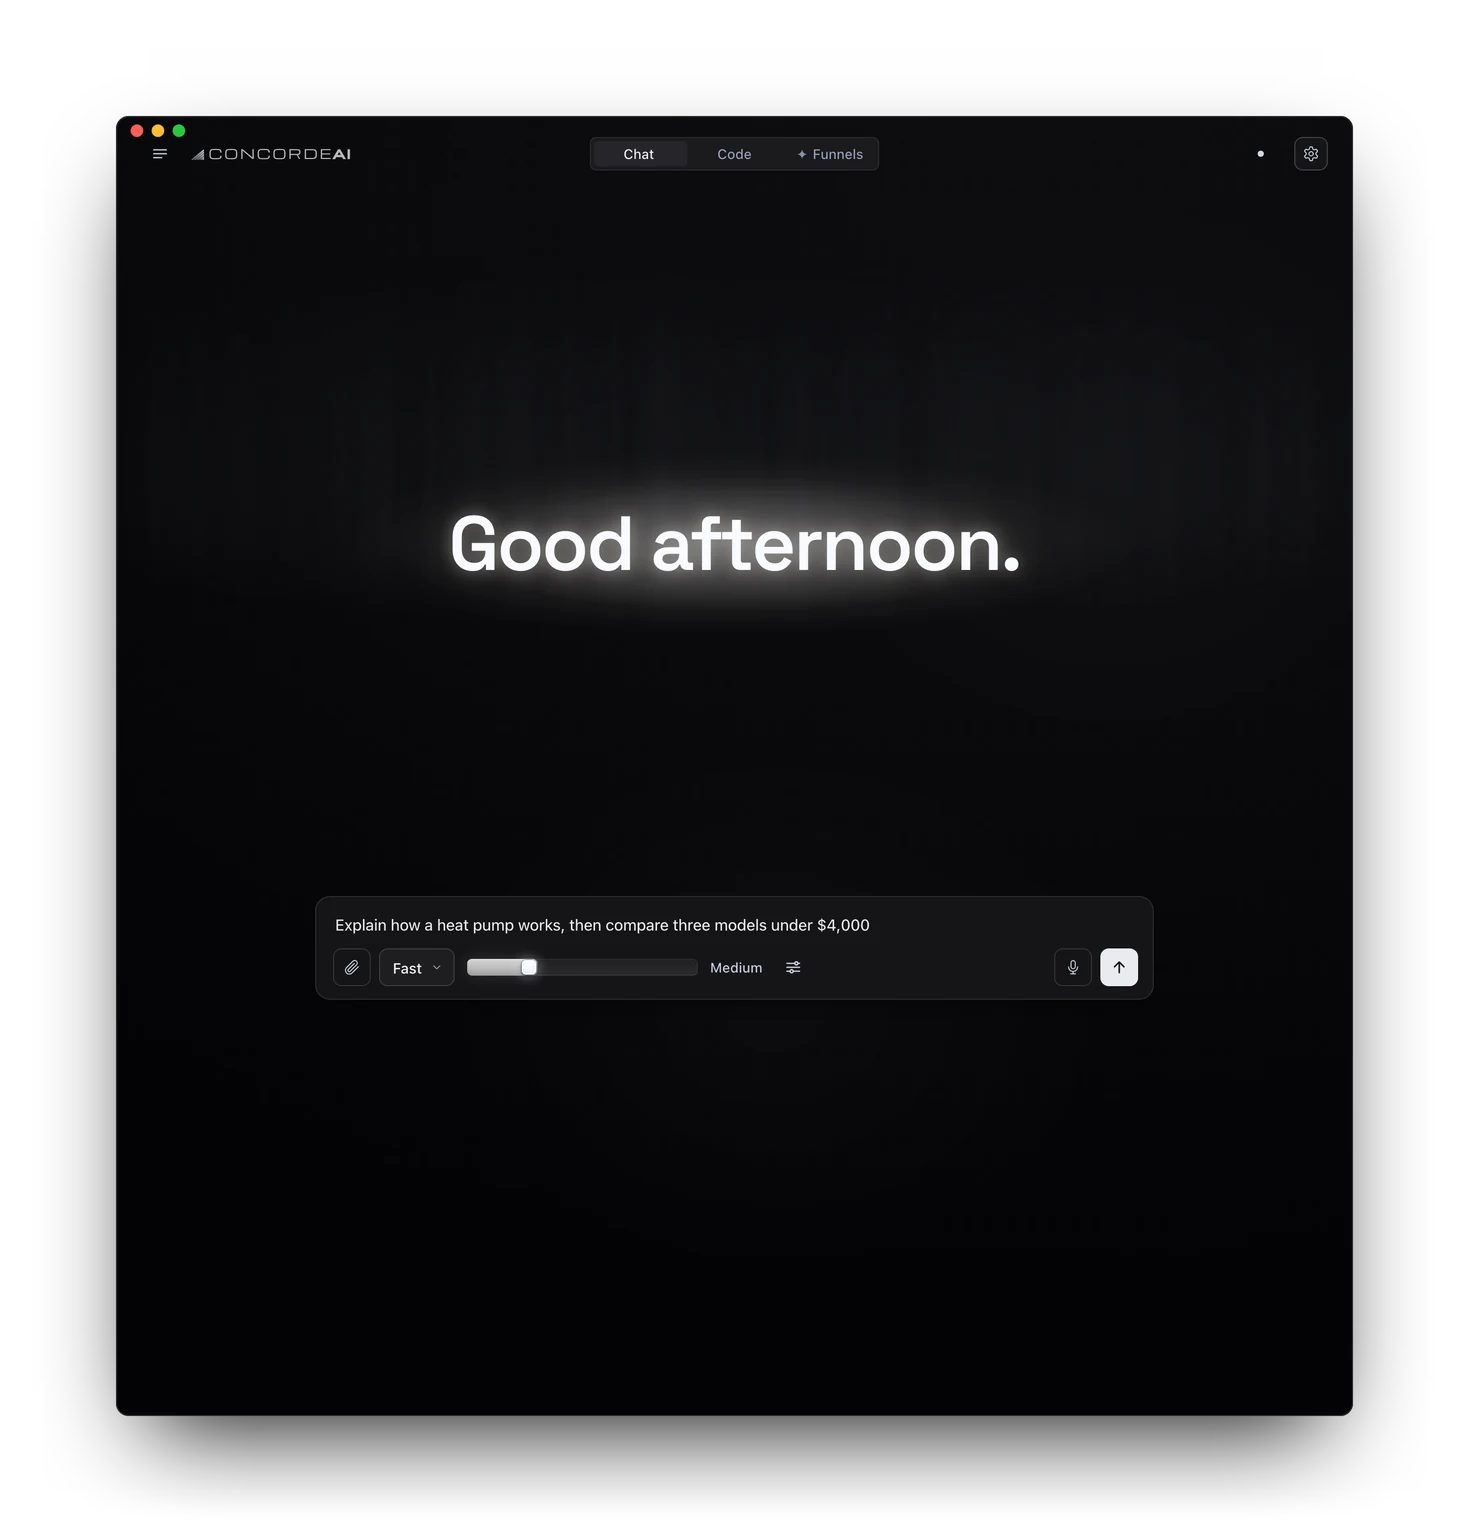
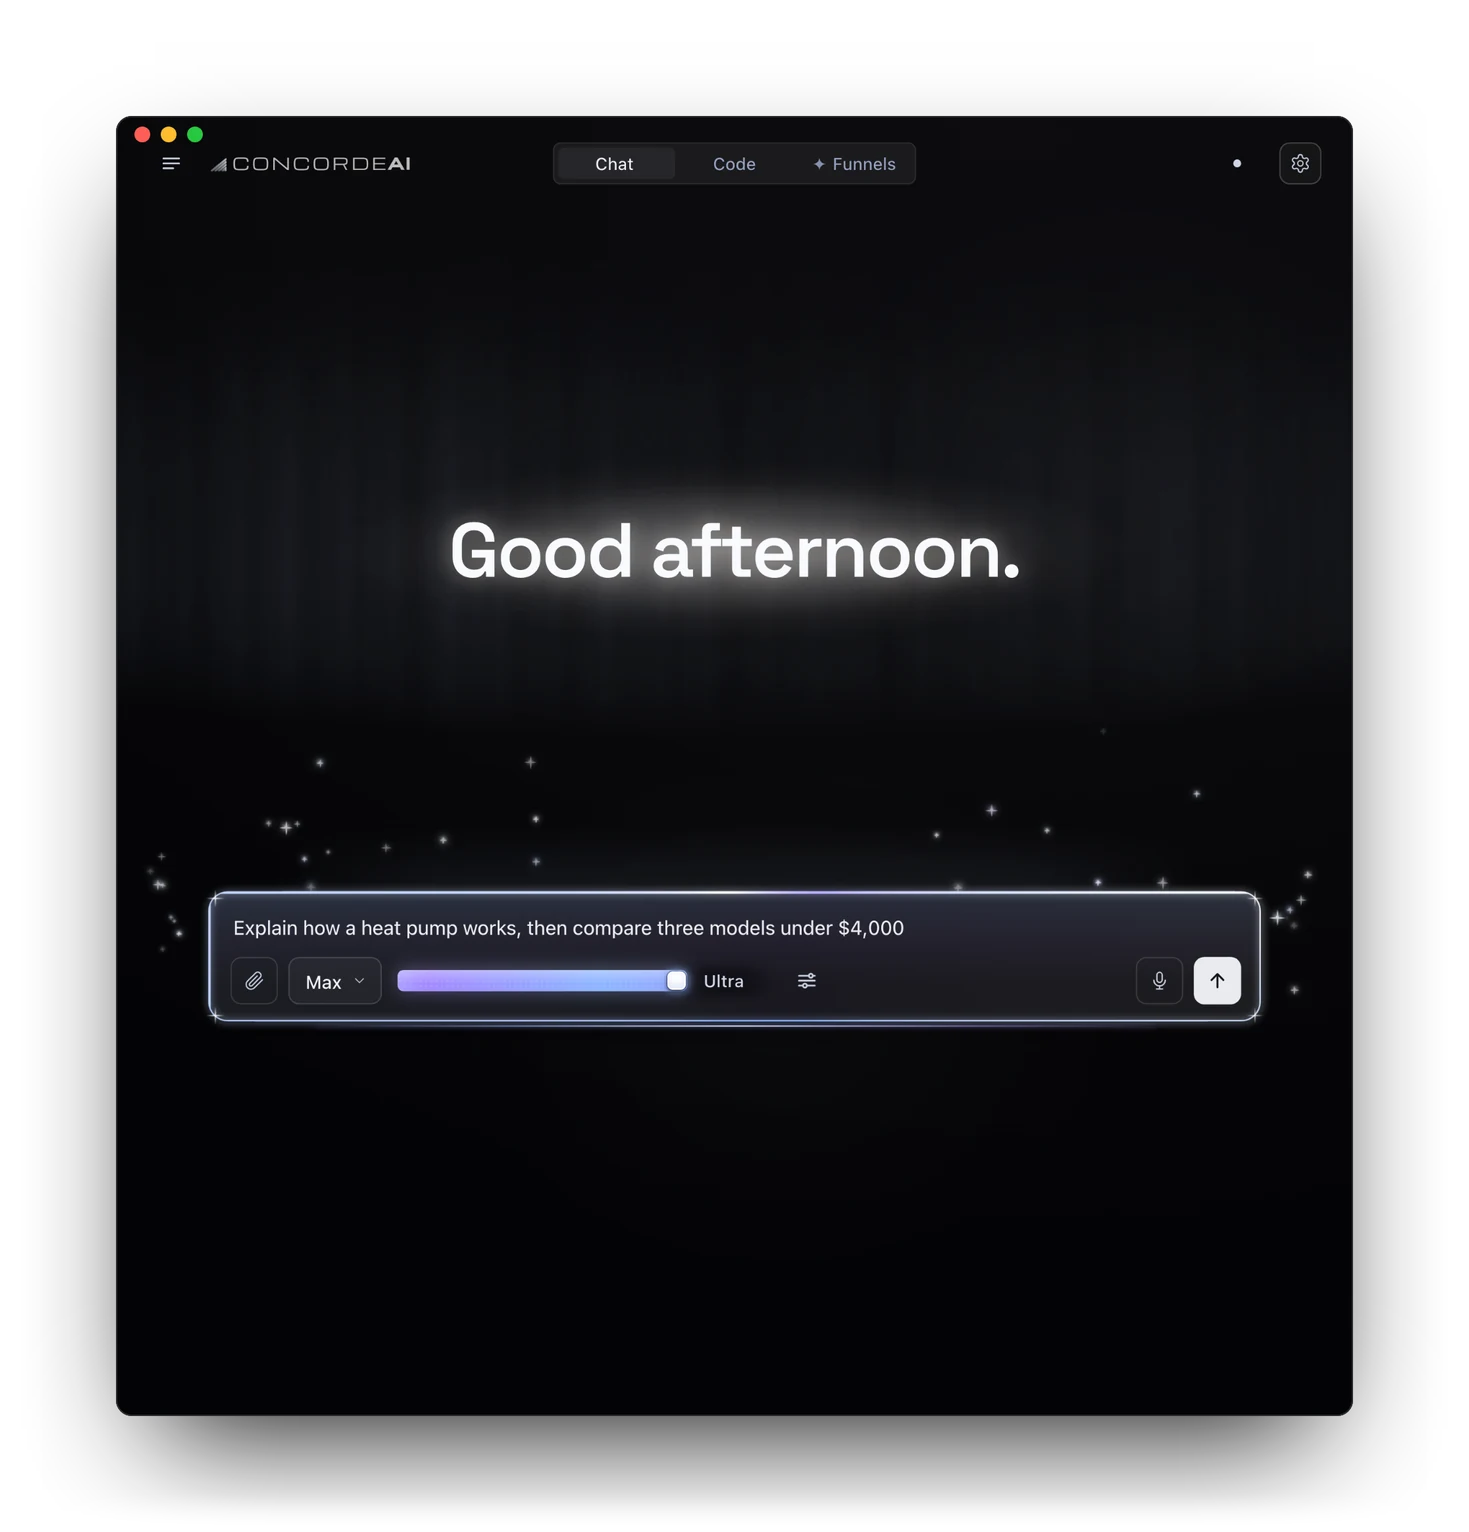
ConcordeAI window: Max mode at Ultra effort, larger interface
The capture is the app's real Horizon home with Ultra effort on (the
ice-violet composer and sparkles), taken at a near-minimum window size so
the interface reads large.

diff --git a/tools/windows/ai-window.html b/tools/windows/ai-window.html
@@ -7,9 +7,9 @@
   ConcordeAI 7.0 as it opens: the Horizon home, a 2x capture of the app's REAL
   page (millenai.py), served by the app's own dev copy (MILLENAI_DEV=1,
   MILLENAI_NOWINDOW=1, a throwaway MILLENAI_HOME, so no chats, no accounts, no
-  servers), after its intro, with Visual effects on and a question typed into
-  the composer but not sent. 1180 x 1240 CSS px: the page's own size, the
-  shape of the old 1000 x 1060 window, so shot-ai stays 1458 x 1532. The
+  servers), after its intro, with Visual effects on, Max mode at Ultra effort (the ice-violet glow and
+  sparkles) and a question typed into the composer but not sent. 940 x 988 CSS px, near the app's smallest window (940 x 620), taken at
+  2.51x so the interface reads large and the image is 2360 x 2480. The
   greeting is drawn by time of day in the app; any is fine. The sky here is
   the app's own near-black aurora; it plays no Apple footage. The native
   titlebar is transparent in the app, so only the three window lights are
@@ -19,8 +19,8 @@
 <style>
 html{margin:0;height:auto;min-height:100vh;display:grid;place-items:center;padding:60px;
   box-sizing:border-box;overflow:hidden;background:linear-gradient(transparent,transparent)}
-body{margin:0;position:relative;width:1180px;height:1240px;flex:none;border-radius:12px;overflow:hidden;
-  background:#08090b url(ai-capture.png) 0 0/1180px 1240px no-repeat;
+body{margin:0;position:relative;width:940px;height:988px;flex:none;border-radius:12px;overflow:hidden;
+  background:#08090b url(ai-capture.png) 0 0/940px 988px no-repeat;
   transform:translateZ(0);
   box-shadow:0 40px 90px -30px rgba(0,0,0,.95),0 0 0 1px rgba(255,255,255,.07);
   outline:1px solid #26272c;outline-offset:-1px}

diff --git a/index.html b/index.html
@@ -946,7 +946,7 @@ footer .right{margin-left:auto;display:flex;gap:20px;flex-wrap:wrap}
                 <picture>
                   <source srcset="assets/shot-ai.webp" type="image/webp">
                   <img src="assets/shot-ai.png" width="1469" height="1532" loading="lazy" decoding="async"
-                       alt="ConcordeAI 7.0 as it opens: a glowing greeting under a near-black sky, and a message box with a question typed in, a mode menu set to Fast and an effort slider at Medium.">
+                       alt="ConcordeAI 7.0 as it opens: a glowing greeting under a near-black sky, and a message box with a question typed in, set to Max mode with the effort slider at Ultra, ringed by a violet glow and sparkles.">
                 </picture>
                 <span class="visually-hidden">Enlarge</span>
               </a>

diff --git a/tools/make-shots.py b/tools/make-shots.py
@@ -61,7 +61,7 @@ OPAQUE = 250     # alpha at or above this is window; below is shadow or air
 # the window plus MARGIN/k of shadow on every side, where k = WIN_H / the
 # window's 2x pixel height; the script refuses a capture that is too small.
 SOURCES = {
-    "ai":  ("ai-window.html",  (1520, 1600)),
+    "ai":  ("ai-window.html",  (1200, 1280)),
     "vpn": ("vpn-window.html", (780, 960)),
     "go":  ("go-window.html",  (1470, 1600)),   # a browser frame round go-capture.png
     "lite": ("lite-window.html", (1470, 1600)),  # the same frame round lite-capture.png

diff --git a/tools/README.md b/tools/README.md
@@ -306,7 +306,7 @@ whatever happened to be on screen. They are HTML so they stay crisp at any
 size and can be restaged without re-shooting. The AI window is the Horizon home as ConcordeAI 7.0
 draws it, a 2x capture of the app's real page (see "Retaking
 `windows/ai-capture.png`"): the greeting under the near-black sky, the message
-box with a question typed in, the Fast mode and the effort slider. The VPN
+box with a question typed in, Max mode and the effort slider at Ultra. The VPN
 window is the main window as ConcordeVPN 1.5 draws it, 460x590: connected
 through New York, Balanced, with the speed card and the Mode and Exit rows. It
 is a capture of the app's real page (see "Retaking `windows/vpn-capture.png`").
@@ -393,17 +393,19 @@ then, with `measure.mjs` (its `MEASURE_COOKIE`, `MEASURE_INIT` and
 `MEASURE_MOTION` exist for this: the app wants its cookie, `millen.fxlevel`
 set to `full` before it loads, and motion left on):
 
-    MEASURE_COOKIE="millen_key_9931=<key>" MEASURE_MOTION=1 MEASURE_DPR=2 \
+    MEASURE_COOKIE="millen_key_9931=<key>" MEASURE_MOTION=1 MEASURE_DPR=2.5106383 \
     MEASURE_INIT='localStorage.setItem("millen.fxlevel","full")' \
-    node tools/measure.mjs http://127.0.0.1:9931/ 1180x1240 \
-      '(async () => { const w = (ms) => new Promise((r) => setTimeout(r, ms));
-         await w(15000);                       // the intro first
-         const t = document.querySelector("#input"); t.focus();
-         t.value = "Explain how a heat pump works, then compare three models under $4,000";
-         t.dispatchEvent(new Event("input", {bubbles: true}));
-         await w(900); t.blur(); await w(1200); return document.title; })()' /tmp/ai.png
+    node tools/measure.mjs http://127.0.0.1:9931/ 940x988 '<expression>' /tmp/ai.png
 
-Save the PNG as `tools/windows/ai-capture.png` (2360x2480), run `make-shots.py`,
+940x988 at 2.51x is near the app's smallest window, so the interface reads large
+(the PNG is 2360x2481; crop it to 2360x2480). The expression waits 15 s for the
+intro, opens the mode menu (`button.hz-pick`) and picks **Max**, types "Explain
+how a heat pump works, then compare three models under $4,000" into `#input`
+(never sends it), pushes the effort `input[type=range]` to its max (**Ultra**:
+the ice-violet slider, the glowing composer and the sparkles), then for about
+4 s removes the "window didn't finish starting" toast a window-less dev copy
+shows, and blurs the box. (2026-11-11, per Pat: the site did not make the
+product look as good as it is; the plain Medium/Fast home was dull.) Save the PNG as `tools/windows/ai-capture.png` (2360x2480), run `make-shots.py`,
 look at it, then stop the dev copy (`kill $(lsof -tnP -iTCP:9931 -sTCP:LISTEN)`).
 Never open a visible app window or add `?hz=gpu=1` (a dev badge); the app's
 Apple aerial footage never goes on the site (the capture is the app's own
